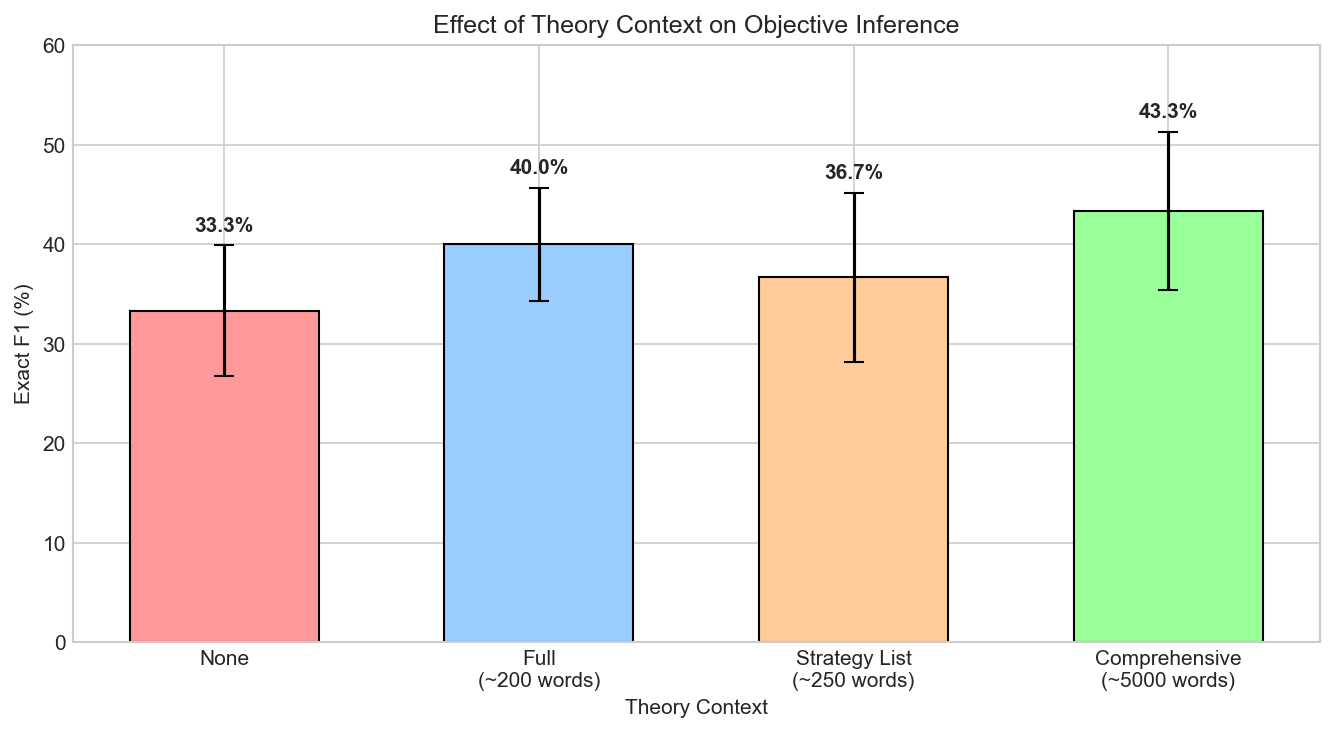
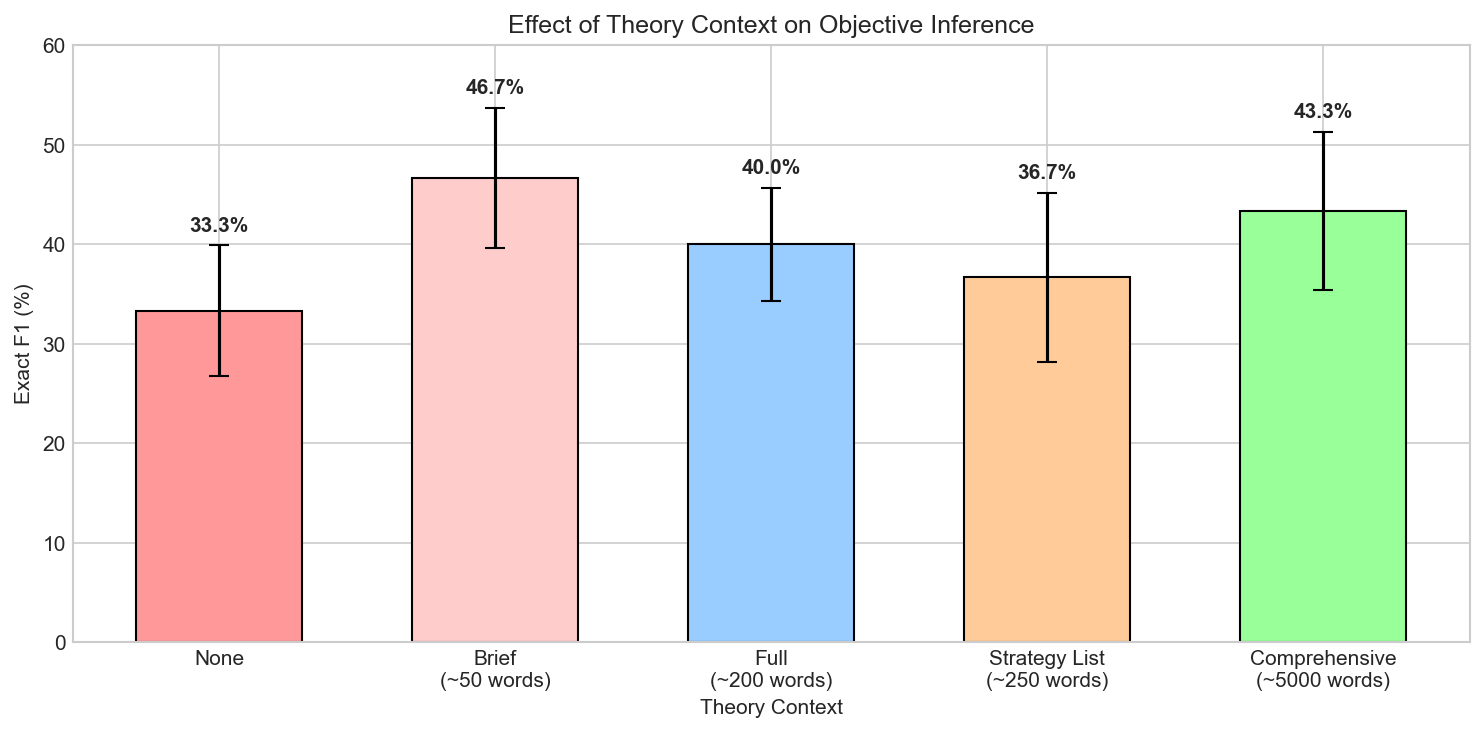
Add brief context to theory context plot
- Combine data from original and controlled experiments
- All 5 conditions: None, Brief, Full, Strategy List, Comprehensive
- Interesting finding: Brief (46.7%) outperforms longer contexts

diff --git a/scripts/generate_results_plots.py b/scripts/generate_results_plots.py
@@ -204,24 +204,36 @@ def fig4_search_space():
 
 def fig5_theory_context():
     """Figure 5: Theory Context Effect on Inference."""
-    # Use controlled context experiment which has all 4 conditions
-    data = load_json(OUTPUTS_DIR / "controlled_context_experiment/phase2_20260226_001215/results.json")
+    # Combine data from two experiments:
+    # - Original: none, brief, full
+    # - Controlled: none, full, strategy_list, comprehensive
+    data_original = load_json(OUTPUTS_DIR / "theory_context_experiment/20260221_131125/condition_stats.json")
+    data_controlled = load_json(OUTPUTS_DIR / "controlled_context_experiment/phase2_20260226_001215/results.json")
 
-    contexts = ['none', 'full', 'strategy_list', 'comprehensive']
-    context_labels = ['None', 'Full\n(~200 words)', 'Strategy List\n(~250 words)', 'Comprehensive\n(~5000 words)']
+    # Build combined data - use controlled for none/full (more recent), original for brief
+    contexts = ['none', 'brief', 'full', 'strategy_list', 'comprehensive']
+    context_labels = ['None', 'Brief\n(~50 words)', 'Full\n(~200 words)', 'Strategy List\n(~250 words)', 'Comprehensive\n(~5000 words)']
 
     means = []
     ses = []
 
     for ctx in contexts:
-        mean = data["stats"][ctx]["mean"] * 100
-        stderr = data["stats"][ctx]["stderr"] * 100
+        if ctx == 'brief':
+            # From original experiment
+            mean = data_original[ctx]["stats"]["exact_f1"]["mean"] * 100
+            std = data_original[ctx]["stats"]["exact_f1"]["std"] * 100
+            n = data_original[ctx]["stats"]["exact_f1"]["n"]
+            se = std / np.sqrt(n)
+        else:
+            # From controlled experiment
+            mean = data_controlled["stats"][ctx]["mean"] * 100
+            se = data_controlled["stats"][ctx]["stderr"] * 100
         means.append(mean)
-        ses.append(stderr)
+        ses.append(se)
 
-    fig, ax = plt.subplots(figsize=(9, 5))
+    fig, ax = plt.subplots(figsize=(10, 5))
 
-    colors = ['#ff9999', '#99ccff', '#ffcc99', '#99ff99']
+    colors = ['#ff9999', '#ffcccc', '#99ccff', '#ffcc99', '#99ff99']
     bars = ax.bar(range(len(contexts)), means, yerr=ses, capsize=5,
                   color=colors, edgecolor='black', width=0.6)
 

diff --git a/results/EXPERIMENTAL_RESULTS_SUMMARY.md b/results/EXPERIMENTAL_RESULTS_SUMMARY.md
@@ -12,7 +12,7 @@ This document summarizes all experimental results from the truthification projec
 | 2 | Oracle Budget Effect | Objective F1 | Peak at budget=6 (27.1%) | 6 conditions |
 | 3 | Objective Complexity | Objective F1 | L1: 39.5% → L5: 16.4% | 5 levels |
 | 4 | Search Space Constraint | Objective F1 | Freeform: 30.5% → MC-8: 94.9% | 6 modes |
-| 5 | Theory Context | Exact F1 | None: 33.3% → Comprehensive: 43.3% | 4 conditions |
+| 5 | Theory Context | Exact F1 | None: 33.3% → Brief: 46.7% | 5 conditions |
 | 6 | Deception Strategies | Exact F1 | Baseline: 36.7% → Combined: 45.0% | 5 strategies |
 | 7 | Agent Communication Strategy | Exact F1 | Aggressive: 55.0% → Misdirection: 16.7% | 7 strategies |
 | 8 | Controlled Theory Context | Exact F1 | None: 33.3% → Comprehensive: 43.3% | 4 conditions |
@@ -95,14 +95,17 @@ This document summarizes all experimental results from the truthification projec
 
 **Research Question:** Does providing theory context improve inference?
 
-| Context | Description | Exact F1 | Std | SE | N |
-|---------|-------------|----------|-----|-----|---|
-| None | No theory provided | 33.3% | 20.8% | 6.6% | 10 |
-| Full | ~200 words: Crawford-Sobel, preference leakage, bias correction | 40.0% | 17.9% | 5.7% | 10 |
-| Strategy List | ~250 words: descriptions of 6 agent strategies | 36.7% | 27.0% | 8.5% | 10 |
-| Comprehensive | ~5000 words: full academic framework (info econ, IRL, linguistics, bias correction) | 43.3% | 25.1% | 7.9% | 10 |
+| Context | Description | Exact F1 | SE | N |
+|---------|-------------|----------|-----|---|
+| None | No theory provided | 33.3% | 6.6% | 10 |
+| Brief | ~50 words: "preferences leak through patterns" | 46.7% | 7.0% | 20 |
+| Full | ~200 words: Crawford-Sobel, preference leakage, bias correction | 40.0% | 5.7% | 10 |
+| Strategy List | ~250 words: descriptions of 6 agent strategies | 36.7% | 8.5% | 10 |
+| Comprehensive | ~5000 words: full academic framework (info econ, IRL, linguistics, bias correction) | 43.3% | 7.9% | 10 |
 
-**Trend:** Comprehensive context provides +10.0 percentage points over no context
+**Note:** Brief context from original experiment; others from controlled experiment.
+
+**Finding:** Brief context (46.7%) outperforms longer contexts - more detail may not help.
 
 ![Theory Context Effect](plots/fig5_theory_context.png)
 
